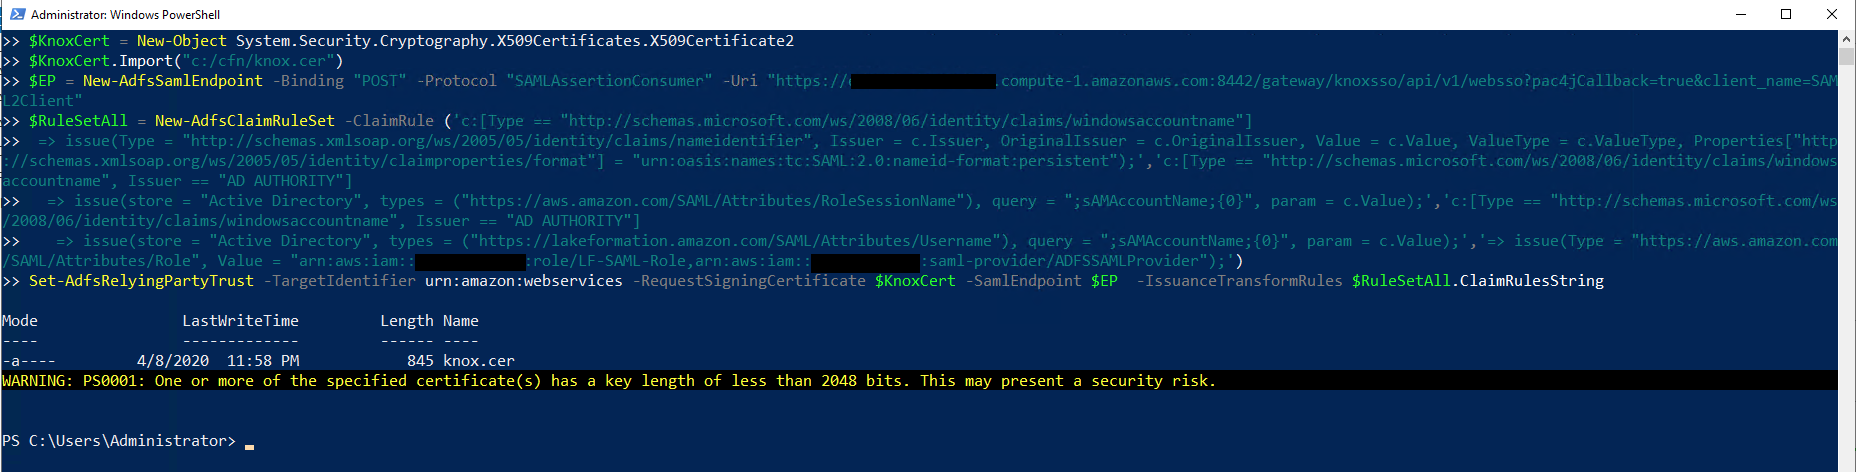
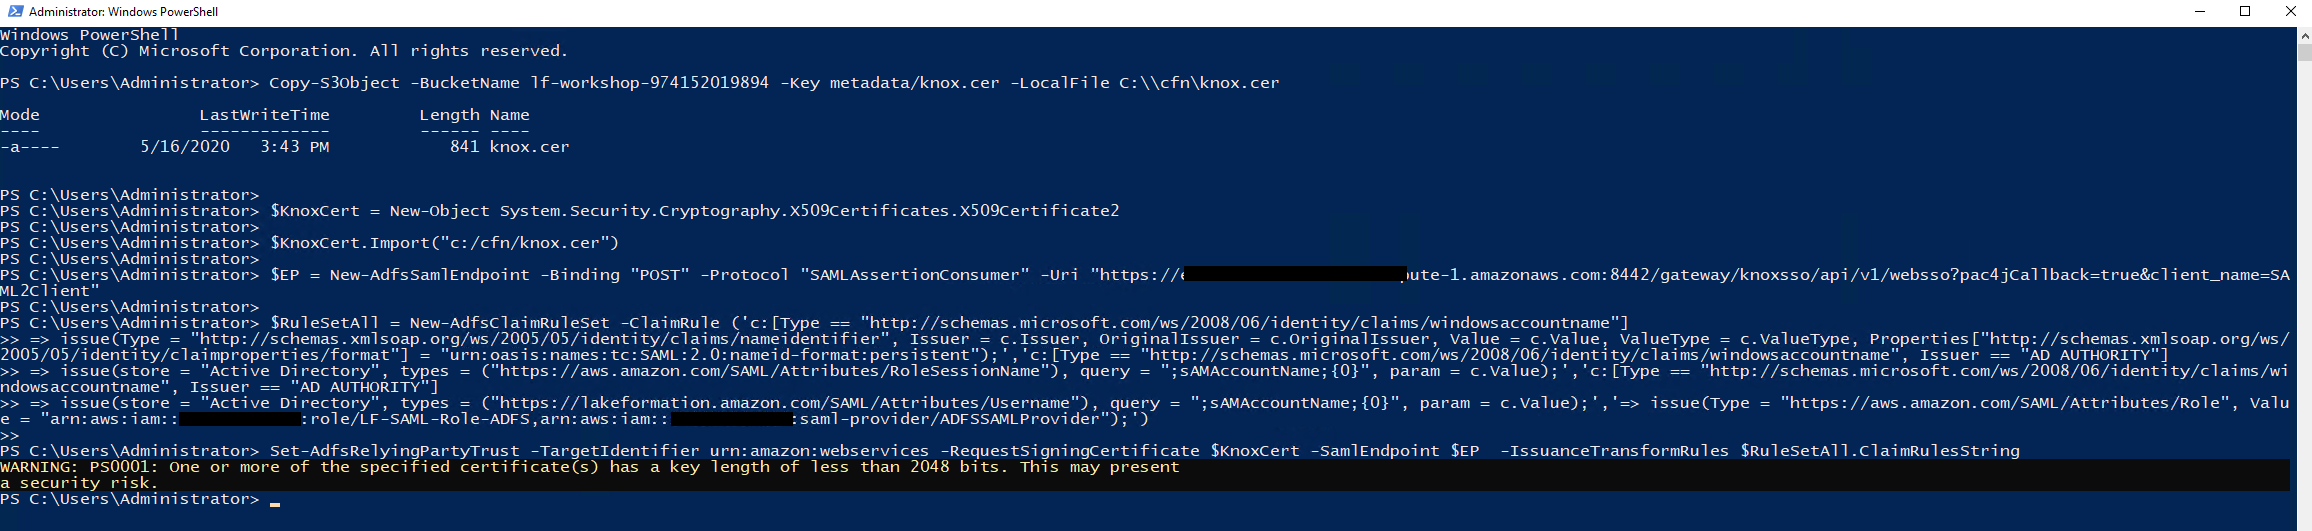
AD FS changes related to Idp sufix changes

Changed region(s): [[0.0, 0.0, 1.0, 1.0]]

diff --git a/website/content/60-advanced/601-emr-integration/6013-before-you-access-data/60132-update-callback.md b/website/content/60-advanced/601-emr-integration/6013-before-you-access-data/60132-update-callback.md
@@ -34,7 +34,7 @@ autoNav = true
         $RuleSetAll = New-AdfsClaimRuleSet -ClaimRule ('c:[Type == "http://schemas.microsoft.com/ws/2008/06/identity/claims/windowsaccountname"]
         => issue(Type = "http://schemas.xmlsoap.org/ws/2005/05/identity/claims/nameidentifier", Issuer = c.Issuer, OriginalIssuer = c.OriginalIssuer, Value = c.Value, ValueType = c.ValueType, Properties["http://schemas.xmlsoap.org/ws/2005/05/identity/claimproperties/format"] = "urn:oasis:names:tc:SAML:2.0:nameid-format:persistent");','c:[Type == "http://schemas.microsoft.com/ws/2008/06/identity/claims/windowsaccountname", Issuer == "AD AUTHORITY"]
         => issue(store = "Active Directory", types = ("https://aws.amazon.com/SAML/Attributes/RoleSessionName"), query = ";sAMAccountName;{0}", param = c.Value);','c:[Type == "http://schemas.microsoft.com/ws/2008/06/identity/claims/windowsaccountname", Issuer == "AD AUTHORITY"]
-        => issue(store = "Active Directory", types = ("https://lakeformation.amazon.com/SAML/Attributes/Username"), query = ";sAMAccountName;{0}", param = c.Value);','=> issue(Type = "https://aws.amazon.com/SAML/Attributes/Role", Value = "arn:aws:iam::<b style="color:red">account-id</b>:role/LF-SAML-Role,arn:aws:iam::<b style="color:red">account-id</b>:saml-provider/ADFSSAMLProvider");')
+        => issue(store = "Active Directory", types = ("https://lakeformation.amazon.com/SAML/Attributes/Username"), query = ";sAMAccountName;{0}", param = c.Value);','=> issue(Type = "https://aws.amazon.com/SAML/Attributes/Role", Value = "arn:aws:iam::<b style="color:red">account-id</b>:role/LF-SAML-Role-ADFS,arn:aws:iam::<b style="color:red">account-id</b>:saml-provider/ADFSSAMLProvider");')
 
           Set-AdfsRelyingPartyTrust -TargetIdentifier urn:amazon:webservices -RequestSigningCertificate $KnoxCert -SamlEndpoint $EP  -IssuanceTransformRules $RuleSetAll.ClaimRulesString</pre>
         <img src="/images/adfs-updatecallbackurl.png" title="Update ADFS Callback URL" style="margin:15px 0px; border:1px solid black"/> </li>
